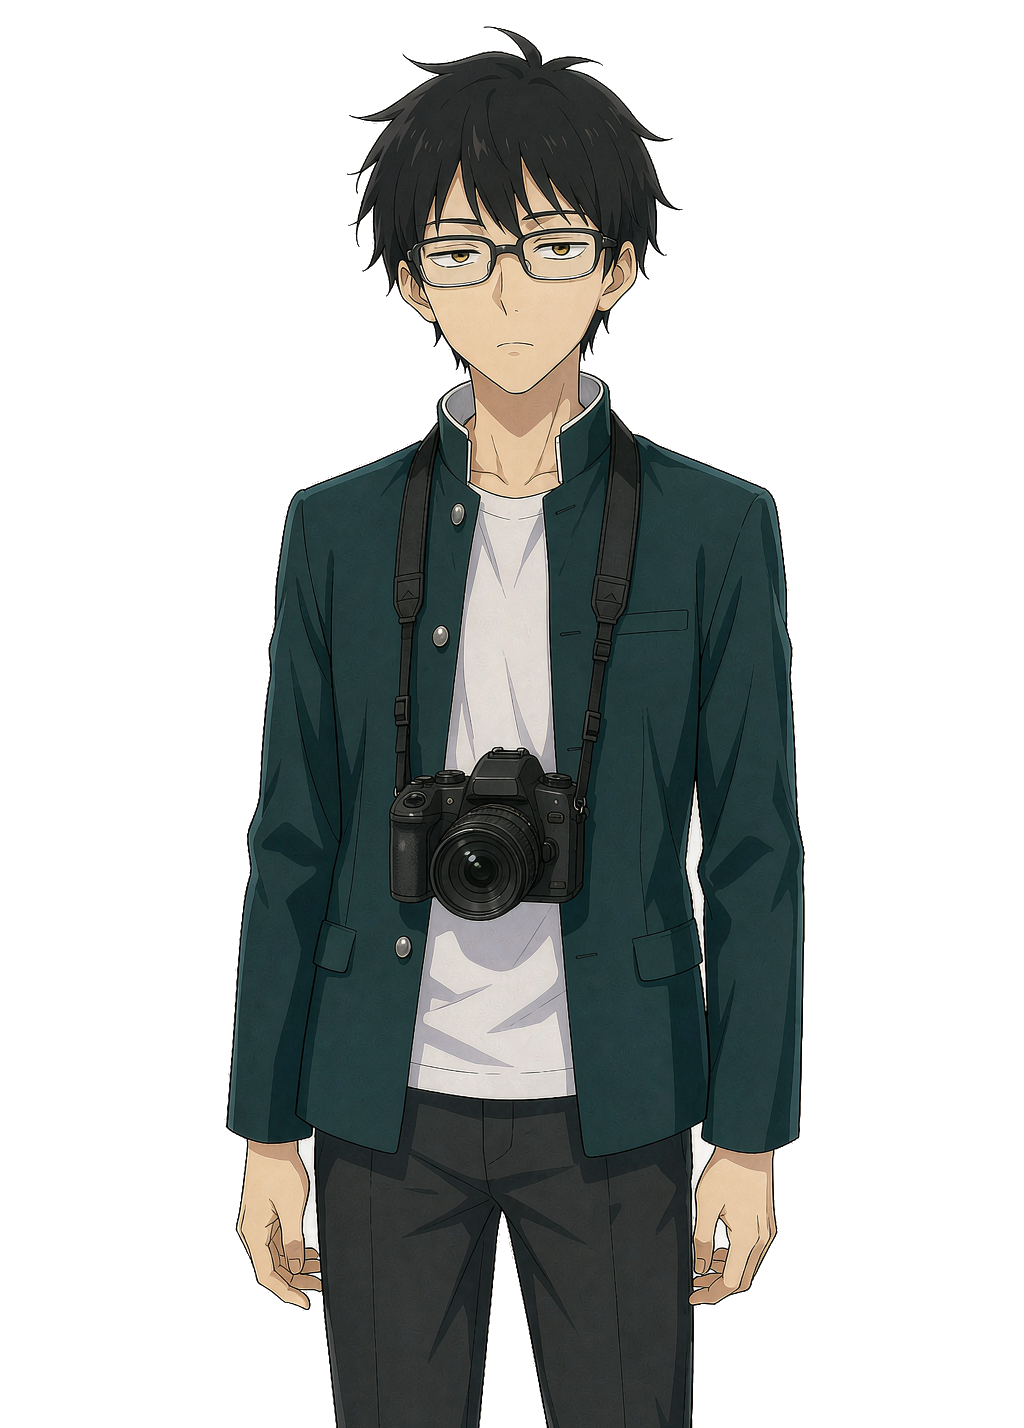
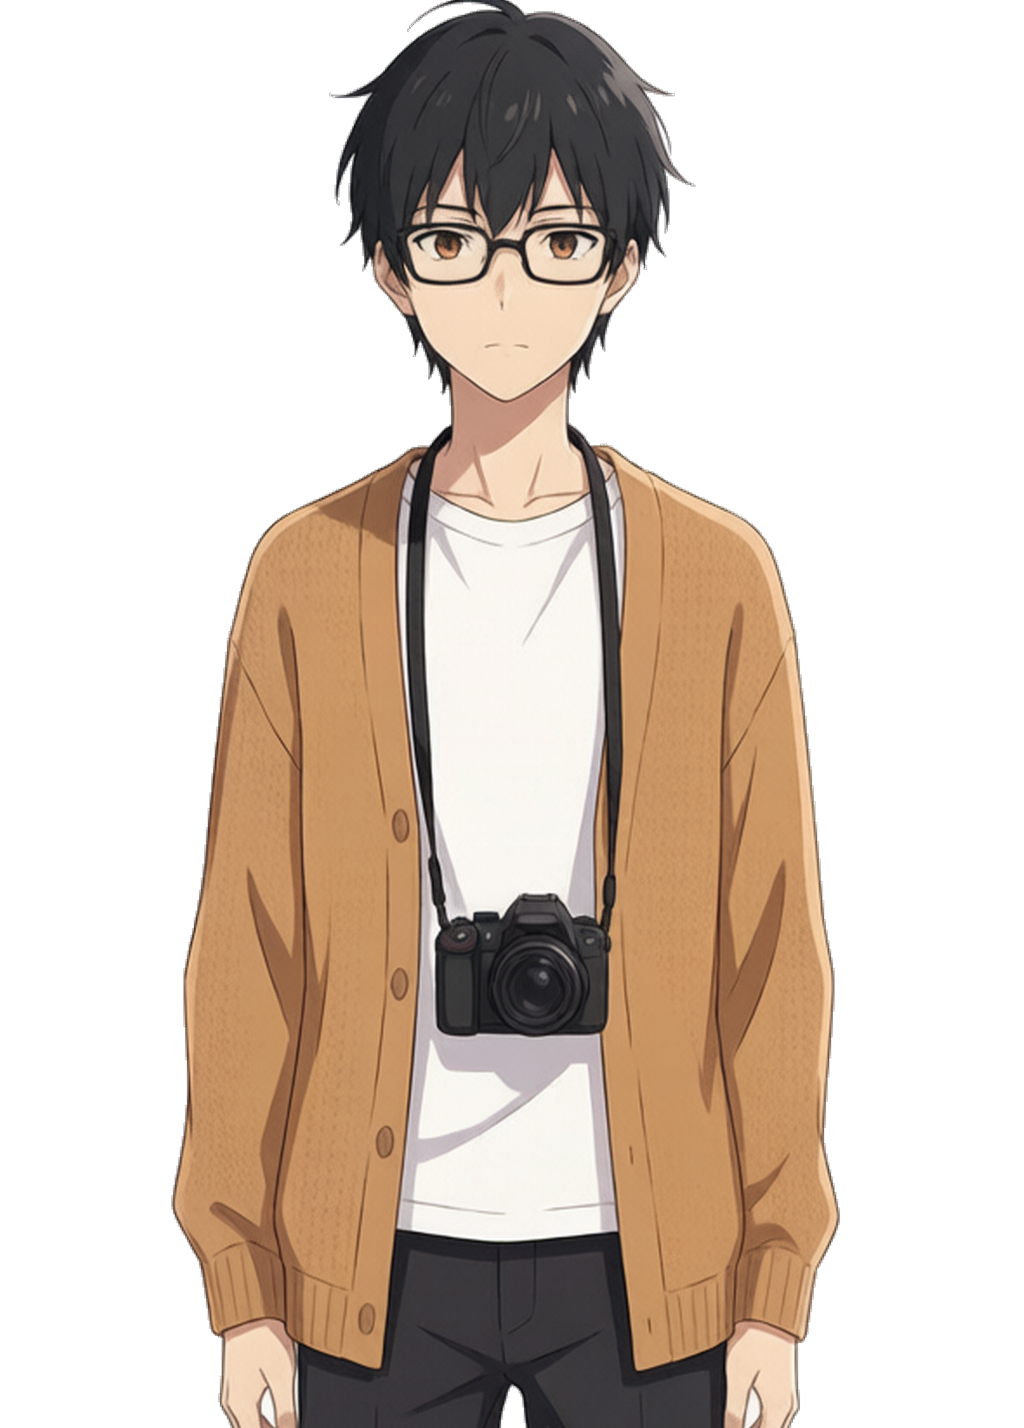
fix(sprite): warm-toned chenyu redesign + per-character name colors
- Regenerate all 5 chenyu sprites in far-shot framing with a caramel
  cardigan (was: dark green collar jacket). Fixes chenyu/suhe reading
  as near-identical dark silhouettes at game size; palette temperature
  now separates the cast (camel vs navy vs silver-white).
- Normalize the 5 sprites to 1024x1428 (head=382 rows, hair-top=20,
  face centered) so the existing FACE_BOX faceH=0.200 still applies.
- Name box gets per-character colors (art.js NAME_COLOR); the unseen
  protagonist keeps the default accent orange, so orange = me.
- Prologue: new beat explaining why the protagonist never appears on
  camera (lens-cap motif now cuts both ways).
- Verified: check-story clean (36 scenes / 784 lines / 5 endings),
  6/6 route regression PASS with zero JS errors, three-sprite stage
  geometry faceH=109px for all three characters.

diff --git a/js/story.js b/js/story.js
@@ -135,8 +135,10 @@ const STORY = {
       { say: '陈屿', text: '闭嘴，这是惯性。', pose: 'angry' },
       { say: '陈屿', text: '取景框里看着挺清楚的，谁还记得盖子的事。' },
       { say: '陈屿', text: '——再说，废片也是片。我硬盘里三千张，没一张删的。', pose: 'smile' },
-      { t: '陈屿从高一起就是这个毛病。' },
-      { t: '相机永远举得比谁都快，镜头盖永远忘了摘。' },
+      { say: '陈屿', text: '不过，那三千张里没有一张是你。三年了，你躲我镜头躲得比我的镜头盖还快。' },
+      { t: '被说中了。每次他把相机对过来，我都会不着痕迹地偏开脸。' },
+      { t: '陈屿从高一起就是这个毛病。相机永远举得比谁都快，镜头盖永远忘了摘。' },
+      { t: '一个不肯看清别人，一个不肯被人看清——半斤八两的两个人，就这么做到了高三。' },
       { t: '很久以后我才明白——' },
       { t: '有些人不是忘了摘镜头盖。' },
       { t: '是不敢看得太清楚。' },

diff --git a/js/art.js b/js/art.js
@@ -55,6 +55,14 @@ const ART = (function () {
     }
   };
 
+  /* 名字框专属色：让名字颜色与立绘主色呼应，一眼对上「名字 ↔ 人物」。
+     林砚（主角，无立绘）不配置 → 落回默认主题橙，「橙色名字 = 我」。 */
+  const NAME_COLOR = {
+    '陈屿': '#e2a55f',
+    '苏禾': '#9db4de',
+    '星屑': '#eee7cf'
+  };
+
   /* ============================ 程序化画面 ============================ */
   function rng(seed) {
     let s = seed >>> 0 || 1;
@@ -194,7 +202,7 @@ const ART = (function () {
   const CHAR_NAME = { chenyu: '陈屿', suhe: '苏禾', hoshi: '星屑' };
 
   return {
-    PHOTO: PHOTO, BG: BG, FACE: FACE, CHAR_NAME: CHAR_NAME,
+    PHOTO: PHOTO, BG: BG, FACE: FACE, CHAR_NAME: CHAR_NAME, NAME_COLOR: NAME_COLOR,
     bgNode: bgNode, charNode: charNode, charSource: charSource, bgSource: bgSource
   };
 })();

diff --git a/js/engine.js b/js/engine.js
@@ -340,6 +340,10 @@ const VN = (function () {
     }
     $('#name-box').textContent = name || '';
     $('#name-box').classList.toggle('hidden', !name);
+    /* 名字框角色色：名字颜色 ↔ 立绘主色呼应（林砚无配置 → 默认主题橙） */
+    const nameBox = $('#name-box');
+    if (ART.NAME_COLOR && ART.NAME_COLOR[name]) nameBox.style.background = ART.NAME_COLOR[name];
+    else nameBox.style.background = '';
     highlightSpeaker(name);
     const box = $('#text-box');
     box.className = 'text-box' + (style ? ' st-' + style : '');

diff --git a/css/style.css b/css/style.css
@@ -196,7 +196,7 @@ html, body {
   background: var(--accent);
   border-radius: var(--r-sm);
   box-shadow: 0 4px 16px rgba(255, 154, 77, .35);
-  transition: opacity var(--dur-base) var(--ease-out);
+  transition: opacity var(--dur-base) var(--ease-out), background var(--dur-base) var(--ease-out);
 }
 #name-box.hidden { opacity: 0; }
 
